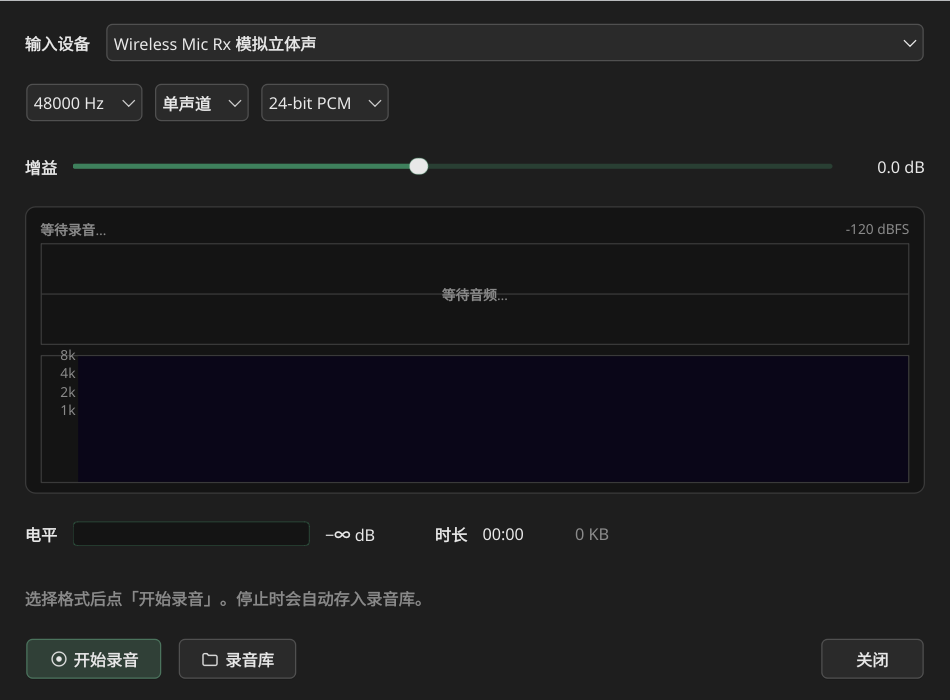
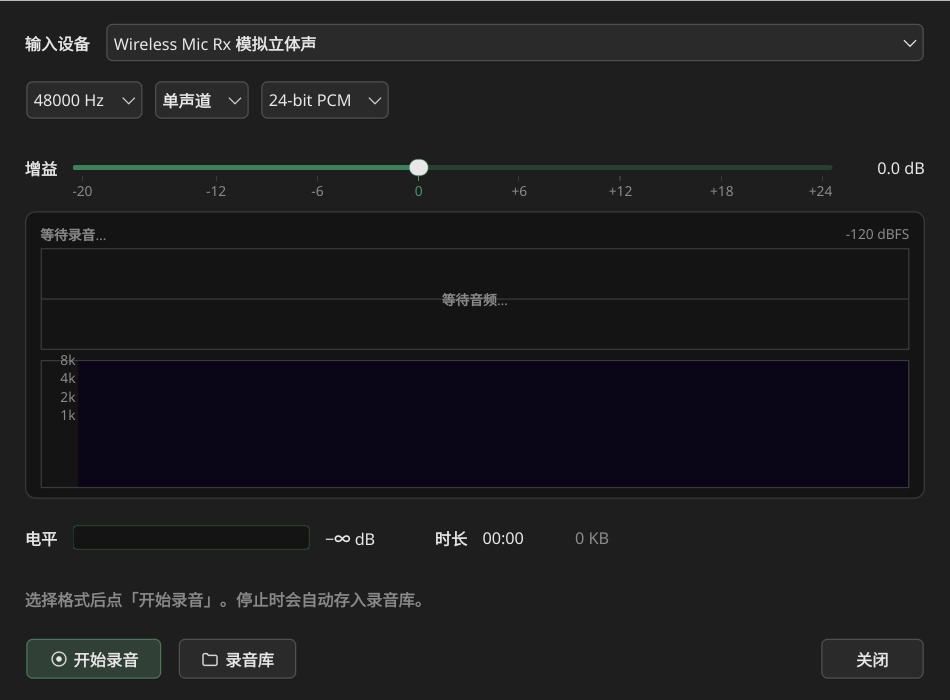
Add dB ruler ticks to recording gain slider
- Draw -20, -12, -6, 0, +6, +12, +18, +24 dB marks directly
  under the slider, aligned with its 0.1dB internal range
- Highlight 0 dB with the palette accent

diff --git a/src/recorddialog.cpp b/src/recorddialog.cpp
@@ -14,6 +14,8 @@
 #include <QHBoxLayout>
 #include <QLabel>
 #include <QMessageBox>
+#include <QFontMetrics>
+#include <QPainter>
 #include <QPalette>
 #include <QProgressBar>
 #include <QSlider>
@@ -58,6 +60,61 @@ qreal gainFactor(int sliderValue)
 {
     return std::pow(10.0, (sliderValue / 10.0) / 20.0);
 }
+
+class GainSlider : public QSlider
+{
+public:
+    explicit GainSlider(QWidget *parent = nullptr)
+        : QSlider(Qt::Horizontal, parent)
+    {
+        setMinimumHeight(46);
+        setSizePolicy(QSizePolicy::Expanding, QSizePolicy::Fixed);
+    }
+
+protected:
+    void paintEvent(QPaintEvent *event) override
+    {
+        QSlider::paintEvent(event);
+
+        QPainter painter(this);
+        const QPalette pal = palette();
+        const QColor tick = pal.color(QPalette::Mid);
+        const QColor text = pal.color(QPalette::PlaceholderText);
+        const QColor accent = pal.color(QPalette::Highlight);
+
+        QFont small = font();
+        small.setPointSizeF(qMax(7.0, font().pointSizeF() - 2.0));
+        painter.setFont(small);
+        const QFontMetrics metrics(small);
+
+        const int margin = 8;
+        const int span = qMax(1, width() - margin * 2);
+        const int baseline = height() - 16;
+        const int values[] = {-200, -120, -60, 0, 60, 120, 180, 240};
+        for (const int value : values) {
+            if (value < minimum() || value > maximum())
+                continue;
+            const double ratio = double(value - minimum()) / (maximum() - minimum());
+            const int x = margin + int(ratio * span);
+            const bool zero = value == 0;
+            painter.setPen(QPen(zero ? accent : tick, 1));
+            painter.drawLine(x, baseline, x, baseline + 3);
+
+            const int db = value / 10;
+            const QString label = QStringLiteral("%1%2")
+                                      .arg(db > 0 ? QStringLiteral("+") : QString())
+                                      .arg(db);
+            const int textWidth = metrics.horizontalAdvance(label);
+            QRect rect(x - textWidth / 2, baseline + 4, textWidth, metrics.height());
+            if (rect.left() < 0)
+                rect.moveLeft(0);
+            if (rect.right() >= width())
+                rect.moveRight(width() - 1);
+            painter.setPen(zero ? accent : text);
+            painter.drawText(rect, Qt::AlignCenter, label);
+        }
+    }
+};
 
 } // namespace
 
@@ -131,7 +188,7 @@ RecordDialog::RecordDialog(RecordingStore *store, const Settings &settings, QWid
     formatLayout->addWidget(m_bits);
     formatLayout->addStretch(1);
 
-    m_gain = new QSlider(Qt::Horizontal);
+    m_gain = new GainSlider;
     m_gain->setRange(-200, 240);
     m_gain->setSingleStep(5);
     m_gain->setPageStep(10);
